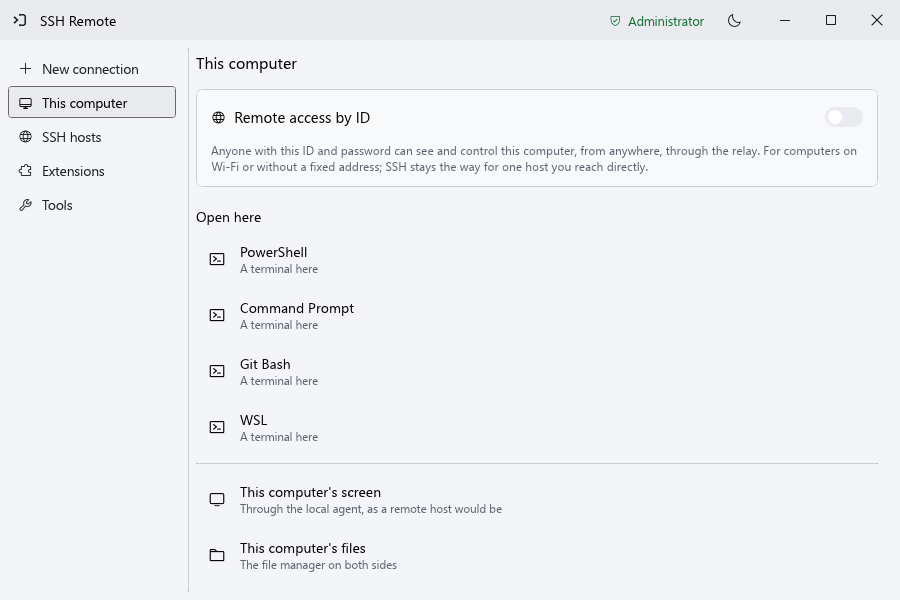
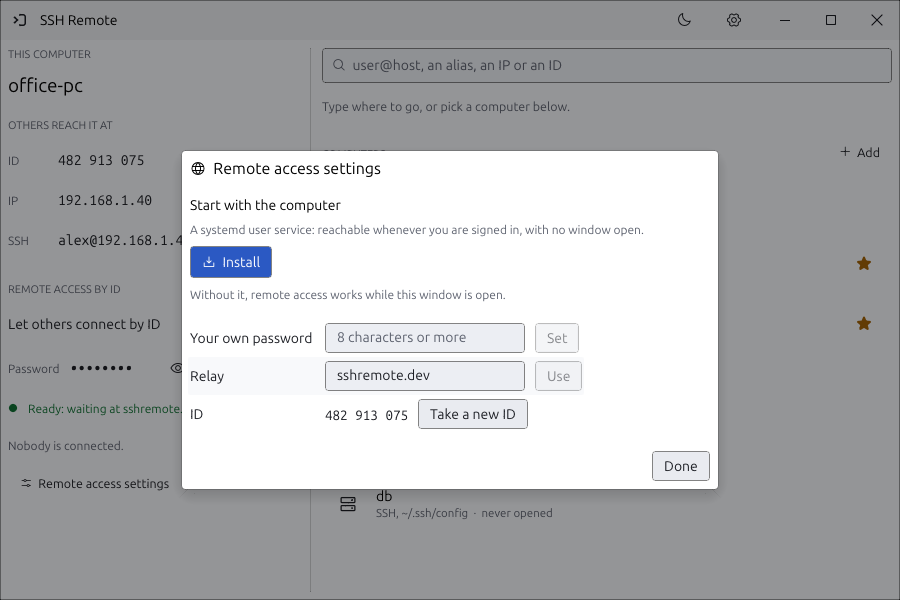
docs: describe one download per platform with the new home window on the site and in the release scripts

diff --git a/site/index.html b/site/index.html
@@ -40,8 +40,8 @@
   </ul>
   <div class="stage">
     <div class="window">
-      <img class="th-dark" src="img/new-dark.png" width="900" height="600" alt="The open dialog: a new connection to user@host with terminal, screen sharing and files">
-      <img class="th-light" src="img/new-light.png" width="900" height="600" alt="The open dialog: a new connection to user@host with terminal, screen sharing and files">
+      <img class="th-dark" src="img/new-dark.png" width="900" height="600" alt="The home window: this computer on the left, the address field and the computers on the right">
+      <img class="th-light" src="img/new-light.png" width="900" height="600" alt="The home window: this computer on the left, the address field and the computers on the right">
     </div>
   </div>
 </div></div>
@@ -49,17 +49,18 @@
 <section id="features"><div class="wrap">
   <div class="feature">
     <div>
-      <span class="eyebrow">01 · Workspace</span>
-      <h3>Tabs and panes that switch between shell, screen and files</h3>
-      <p>Each tab is a host. Split it beside or below and turn any pane into a terminal, the host's screen or its files without connecting again. Lost connections come back by themselves, with the shells kept.</p>
+      <span class="eyebrow">01 · Computers</span>
+      <h3>One field for every computer, and tabs that switch between shell, screen and files</h3>
+      <p>Type <code>user@host</code>, an alias, an IP or a remote access ID and open its terminal, its screen or its files. Each computer keeps its name, key, saved password and SSH tunnels; aliases stay in <code>~/.ssh/config</code>. In the workspace each tab is a computer, split beside or below, and lost connections come back by themselves.</p>
       <ul class="points">
         <li><b>Screen</b><span>Keyboard and mouse, monitors, one window, clipboard, sound, chat</span></li>
         <li><b>Files</b><span>Two panes, drag and drop, never overwriting</span></li>
+        <li><b>Tunnels</b><span>Here to there, there to here and SOCKS, opened when needed or with the app</span></li>
       </ul>
     </div>
     <div class="window">
-      <img class="th-dark" src="img/ssh-dark.png" width="900" height="600" alt="SSH hosts from favorites, recent and ~/.ssh/config" loading="lazy">
-      <img class="th-light" src="img/ssh-light.png" width="900" height="600" alt="SSH hosts from favorites, recent and ~/.ssh/config" loading="lazy">
+      <img class="th-dark" src="img/ssh-dark.png" width="900" height="600" alt="A computer's sheet: its ~/.ssh/config block, saved password and tunnels" loading="lazy">
+      <img class="th-light" src="img/ssh-light.png" width="900" height="600" alt="A computer's sheet: its ~/.ssh/config block, saved password and tunnels" loading="lazy">
     </div>
   </div>
 
@@ -75,20 +76,20 @@
       </ul>
     </div>
     <div class="window">
-      <img class="th-dark" src="img/local-dark.png" width="900" height="600" alt="The Remote access by ID card" loading="lazy">
-      <img class="th-light" src="img/local-light.png" width="900" height="600" alt="The Remote access by ID card" loading="lazy">
+      <img class="th-dark" src="img/local-dark.png" width="900" height="600" alt="Remote access by ID on the left of the home window, with its settings" loading="lazy">
+      <img class="th-light" src="img/local-light.png" width="900" height="600" alt="Remote access by ID on the left of the home window, with its settings" loading="lazy">
     </div>
   </div>
 
   <div class="feature">
     <div>
-      <span class="eyebrow">03 · Tools</span>
+      <span class="eyebrow">03 · Settings</span>
       <h3>The SSH chores, done properly</h3>
-      <p>Make and copy keys, edit <code>~/.ssh/config</code> with a form, keep passwords in the system's password store, and back up hosts, settings and all of <code>~/.ssh</code> under a passphrase.</p>
+      <p>Make, copy and install keys, keep passwords in the system's password store, and back up your computers, settings and all of <code>~/.ssh</code> under a passphrase.</p>
     </div>
     <div class="window">
-      <img class="th-dark" src="img/tools-dark.png" width="900" height="600" alt="Tools: SSH keys, hosts, saved passwords and backups" loading="lazy">
-      <img class="th-light" src="img/tools-light.png" width="900" height="600" alt="Tools: SSH keys, hosts, saved passwords and backups" loading="lazy">
+      <img class="th-dark" src="img/tools-dark.png" width="900" height="600" alt="Settings: SSH keys, passwords, backup, extensions and more" loading="lazy">
+      <img class="th-light" src="img/tools-light.png" width="900" height="600" alt="Settings: SSH keys, passwords, backup, extensions and more" loading="lazy">
     </div>
   </div>
 </div></section>
@@ -136,8 +137,6 @@
   <div class="files">
     <a class="file" href="download/sshremote-windows-x86_64.exe" data-file="sshremote-windows-x86_64.exe"><span data-i="windows"></span><span><b>SSH Remote for Windows</b><span class="meta">x86_64 · .exe</span></span><span class="size"></span><span class="go">Download <span data-i="download"></span></span></a>
     <a class="file" href="download/sshremote-linux-x86_64" data-file="sshremote-linux-x86_64"><span data-i="linux"></span><span><b>SSH Remote for Linux</b><span class="meta">x86_64 · GNOME on Wayland</span></span><span class="size"></span><span class="go">Download <span data-i="download"></span></span></a>
-    <a class="file" href="download/sshremote-terminal-windows-x86_64.exe" data-file="sshremote-terminal-windows-x86_64.exe"><span data-i="windows"></span><span><b>Terminal edition for Windows</b><span class="meta">without the screen; add it as an extension</span></span><span class="size"></span><span class="go">Download <span data-i="download"></span></span></a>
-    <a class="file" href="download/sshremote-terminal-linux-x86_64" data-file="sshremote-terminal-linux-x86_64"><span data-i="linux"></span><span><b>Terminal edition for Linux</b><span class="meta">without the screen; add it as an extension</span></span><span class="size"></span><span class="go">Download <span data-i="download"></span></span></a>
   </div>
   <p class="dim small" style="margin-top:20px">From source: <code>cargo build --release</code>, see the <a href="https://github.com/thinkbigx/sshremote">README</a>.</p>
 </div></section>

diff --git a/site/docs.html b/site/docs.html
@@ -41,7 +41,7 @@
   <h2 id="start">Getting started</h2>
   <p>Download the file for your system from the <a href="index.html#download">download section</a>. It is a single program: put it on your own computer and on each host you want to reach, as <code>~/.local/bin/sshremote</code> on Linux or anywhere on <code>PATH</code> on Windows.</p>
   <pre class="cmd"><code>sshremote</code></pre>
-  <p>With no arguments it opens the open dialog: a new connection, this computer (local shells, its screen and files), your SSH hosts (favorites, recent and <code>~/.ssh/config</code>), Extensions and the tools. Under this computer is the Remote access by ID card. What you open goes into the workspace as tabs and panes; each pane switches between terminal, screen and files from its mode menu.</p>
+  <p>With no arguments it opens the home window. On the left is this computer as others reach it: its remote access ID, IP addresses and SSH address, each copied with a click, and the Remote access by ID switch. On the right is one address field for <code>user@host</code>, an alias, an IP or an ID; it says what it reads and opens a terminal, the screen or the files there. Under it are your computers: this computer, favorites, the last opened and the aliases of <code>~/.ssh/config</code>, each with a sheet for its name, key, saved password and SSH tunnels. The gear opens the settings. What you open goes into the workspace as tabs and panes; each pane switches between terminal, screen and files from its mode menu.</p>
   <table>
     <tr><th>Keys</th><th>Does</th></tr>
     <tr><td><kbd>Ctrl</kbd>+<kbd>Shift</kbd>+<kbd>P</kbd></td><td>Command palette</td></tr>
@@ -57,15 +57,15 @@ sshremote terminal user@host --split db   # terminal panes, split
 sshremote user@host                       # the screen in this terminal (sixel)
 sshremote user@host --preset 0            # 0 black and white 5 fps .. 4 true colour 60 fps</code></pre>
   <p>A lost connection is tried again in the same mode, keeping the shells; after 30 seconds the pane offers Reconnect or Close.</p>
-  <div class="note"><b>Windows hosts.</b> The agent starts a helper in the logged-on user's session. To see the sign-in screen and send Ctrl+Alt+Del, add the service once (elevated, or with Start with the computer under This computer): <code>sshremote --install-service</code>.</div>
+  <div class="note"><b>Windows hosts.</b> The agent starts a helper in the logged-on user's session. To see the sign-in screen and send Ctrl+Alt+Del, add the service once (elevated, or with Start with the computer in the remote access settings): <code>sshremote --install-service</code>.</div>
 
   <h2 id="relay">Connecting by ID through the relay</h2>
   <p>For a PC without SSH or a fixed address, for example a laptop on Wi-Fi, the way RustDesk works. The PC keeps a lasting 9-digit ID, the same across restarts, and a password its owner sets or generates. A viewer connects with both through the relay.</p>
   <h3>On the PC to reach</h3>
-  <p>Open dialog &rarr; <b>This computer</b> &rarr; <b>Remote access by ID</b>. The card has an on/off switch, the ID and the password (each with copy, show and new buttons) and a line telling the state. <b>Start with the computer</b> installs the Windows service or a systemd user unit; on Windows the service also covers the sign-in and lock screens. <b>More</b> holds your own password, the relay server and a new ID.</p>
+  <p>Turn on <b>Remote access by ID</b> on the left of the home window. It shows the ID and the password (copy, show and a new one), a line telling the state and who is connected, each with Disconnect. <b>Remote access settings</b> hold <b>Start with the computer</b>, which installs the Windows service or a systemd user unit (on Windows the service also covers the sign-in and lock screens), your own password, the relay server and a new ID.</p>
   <p>From any browser, without installing anything: open <a href="/web/">sshremote.dev/web</a>, type the ID and its password, and the screen opens in the page with keyboard and mouse.</p>
   <h3>On the viewer</h3>
-  <p>Type the ID (digits only) in the open dialog's <b>New connection</b> field, then the password, and choose Screen sharing or Files.</p>
+  <p>Type the ID (digits only) in the address field, then the password, and choose Screen sharing or Files.</p>
   <h3>From the command line</h3>
   <pre class="cmd"><code>sshremote remote-access on           # also: status, off, run
 sshremote remote-access password     # a new one; password NEW sets yours
@@ -78,7 +78,7 @@ sshremote sshremote://ID@sshremote.dev --password P</code></pre>
   <pre class="cmd"><code>sshremote-relay --listen 0.0.0.0:7071 --store /var/lib/sshremote/ids.json</code></pre>
 
   <h2 id="extensions">Using extensions</h2>
-  <p>Browse the <a href="extensions.html">extension list</a>, or open <b>Extensions</b> in the app's open dialog (tabs Installed, Browse and Manage). From the command line:</p>
+  <p>Browse the <a href="extensions.html">extension list</a>, or open <b>Settings &rarr; Extensions</b> in the app (tabs Installed, Browse and Manage). From the command line:</p>
   <pre class="cmd"><code>sshremote ext available          # what the signed registry offers
 sshremote ext install ID         # install or update
 sshremote ext install FILE.sshx  # from a file</code></pre>

diff --git a/site/extensions.html b/site/extensions.html
@@ -28,7 +28,7 @@
 <main id="main">
 <div class="page-head"><div class="wrap">
   <h1>Extensions</h1>
-  <p class="lead">Everything in the signed registry, as the app sees it. Install from <b>Extensions</b> in the open dialog (Browse tab) or with one command; each runs only with the permissions it names.</p>
+  <p class="lead">Everything in the signed registry, as the app sees it. Install from <b>Settings &rarr; Extensions</b> in the app (Browse tab) or with one command; each runs only with the permissions it names.</p>
 </div></div>
 
 <div class="wrap">

diff --git a/README.md b/README.md
@@ -83,13 +83,11 @@ What is opened goes into the workspace:
   backups of hosts and settings, with all of `~/.ssh` encrypted under a passphrase.
 - On Windows the window asks for administrator rights at start and works without them.
 
-## Editions
+## Building
 
-- **SSH Remote** (`--no-default-features --features gui,remote`): everything above built in, except
-  the web gateway and the MCP server, which come as extensions.
-- **SSH Remote Terminal** (`--no-default-features --features gui`): the terminal and tools; screens,
-  files, chat and sound come as the Remote desktop extension.
-- A plain `cargo build` builds everything in (`gui`, `remote`, `web`, `mcp`).
+`cargo build --release` builds the one program with every part in. Packagers can leave parts out
+with `--no-default-features` and a choice of the features `gui`, `remote`, `web` and `mcp` (a
+headless server: `--features web,mcp`); what is left out says so when asked for.
 
 ## Extensions
 

diff --git a/docs/extensions.md b/docs/extensions.md
@@ -24,7 +24,6 @@ an app that must stay safe on machines that hold SSH keys:
 |---|---|---|
 | Style pack | `contributes.layers` | Pictures and Lottie animations behind the terminals |
 | Script | `main` (a `.wasm` file), `contributes.commands` | Commands in the terminal's right-click menu and the command palette that change the selected text |
-| Program | `programs`, `contributes.provides` | Commands of the `sshremote` command line (`sshremote web`, `sshremote mcp`, `sshremote remote`) |
 | Host extension | `programs`, `"activation": "startup"`, `contributes.commands` | Runs beside the app for as long as it is open: status bar items, panels, commands, terminals, events |
 
 ## The manifest
